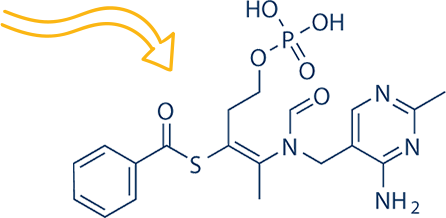
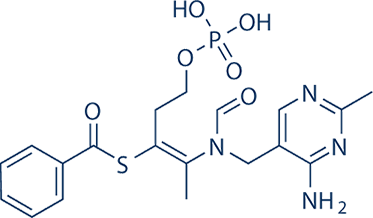
.

diff --git a/igenics-upsell4.css b/igenics-upsell4.css
@@ -76,11 +76,17 @@
     padding-right: 25px;
 }
 .igncs-up-k3-rgt-img {
-    width: 46%;
+    width: 46%; 
 }
 .igncs-up-k3-rgt-img-cntlr {
-    margin-left: -25px;
     padding-right: 36px;
+    text-align: right;
+    position: relative;
+}
+.igncs-up-k3-arow-img-ctlr {
+    position: absolute;
+    top: 5px;
+    left: -22px;
 }
 .igncs-up-k3-left-des ul {
     padding-bottom: 0;
@@ -106,9 +112,9 @@
 }
 .igncs-up-k4-rgt-img-cntlr {
     border: 6px solid #fff;
-    box-shadow: 0px 1px 23px 10px #f1f1f1;
-    -webkit-box-shadow: 0px 1px 23px 10px #f1f1f1;
-    -ms-box-shadow: 0px 1px 23px 10px #f1f1f1;
+    box-shadow: 0px 1px 23px 10px #dfdcdc;
+    -webkit-box-shadow: 0px 1px 23px 10px #dfdcdc;
+    -ms-box-shadow: 0px 1px 23px 10px #dfdcdc;
 }
 .igncs-up-k5-left-des p{
     line-height: 1.2;
@@ -164,6 +170,7 @@
 .igncs-up-k7-left-des {
     width: 66%;
     padding-right: 30px;
+    padding-top: 20px;
 }
 .igncs-up-k7-rgt-img {
     width: 34%;
@@ -195,6 +202,10 @@
     .igncs-up-k1-sec-inner{
         padding: 30px 0;
     }
+    .igncs-up-k3-arow-img-ctlr {
+        max-width: 120px;
+        width: 100%;
+    }
 }
 @media (max-width: 991px){
     .igncs-up-k1-arow-img-ctlr {
@@ -218,6 +229,12 @@
     .igncs-up-k7-sec-inr{
         padding-top: 30px;
         padding-bottom: 30px;
+    }
+    .igncs-up-k7-left-des{
+        padding-top: 0;
+    }
+    .igncs-up-k3-arow-img-ctlr{
+        max-width: 98px;
     }
     
 }
@@ -324,6 +341,10 @@
     .igncs-up-k7-sec.plr-50 {
         padding-right: 15px!important;
     }
+    .igncs-up-k3-arow-img-ctlr{
+        top: 30px;
+        left: 28px;
+    }
 }
 
 @media(max-width: 575px){
@@ -332,5 +353,12 @@
     }
     .igncs-up-k1-left-des {
         padding-top: 30px;
+    }
+}
+@media(max-width: 479px){
+    .igncs-up-k3-arow-img-ctlr{
+        top: 20px;
+        left: 0;
+        max-width: 70px;
     }
 }

diff --git a/igenics-upsell.html b/igenics-upsell.html
@@ -229,7 +229,10 @@
             <div class="igncs-up-k3-rgt-img">
               <div class="igncs-up-k3-rgt-img-cntlr">
                 <img class="lazy loaded" data-src="assets/images/igncs-up-k3-rgt-img.png">
-              </div>              
+                <div class="igncs-up-k3-arow-img-ctlr">
+                  <img class="lazy loaded" data-src="assets/images/igncs-up-k3-arow-img.png">
+                </div> 
+              </div>             
            </div>
          </div>
        </div>
